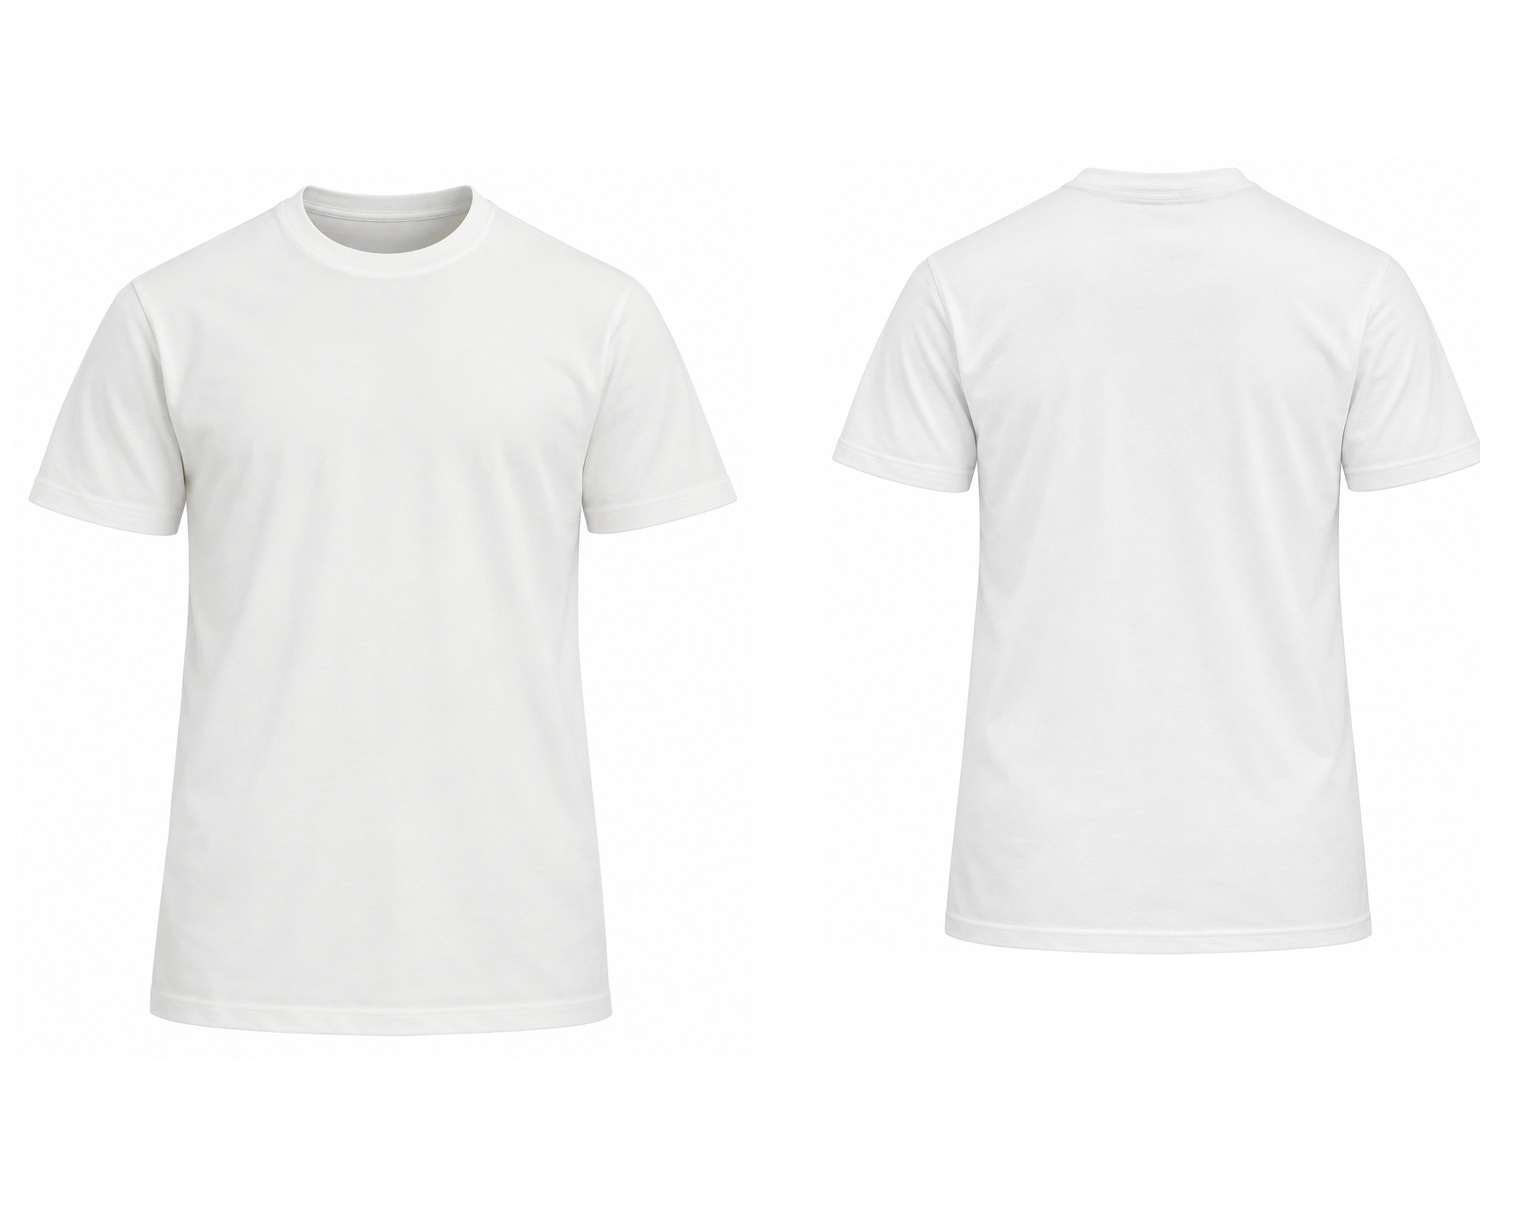
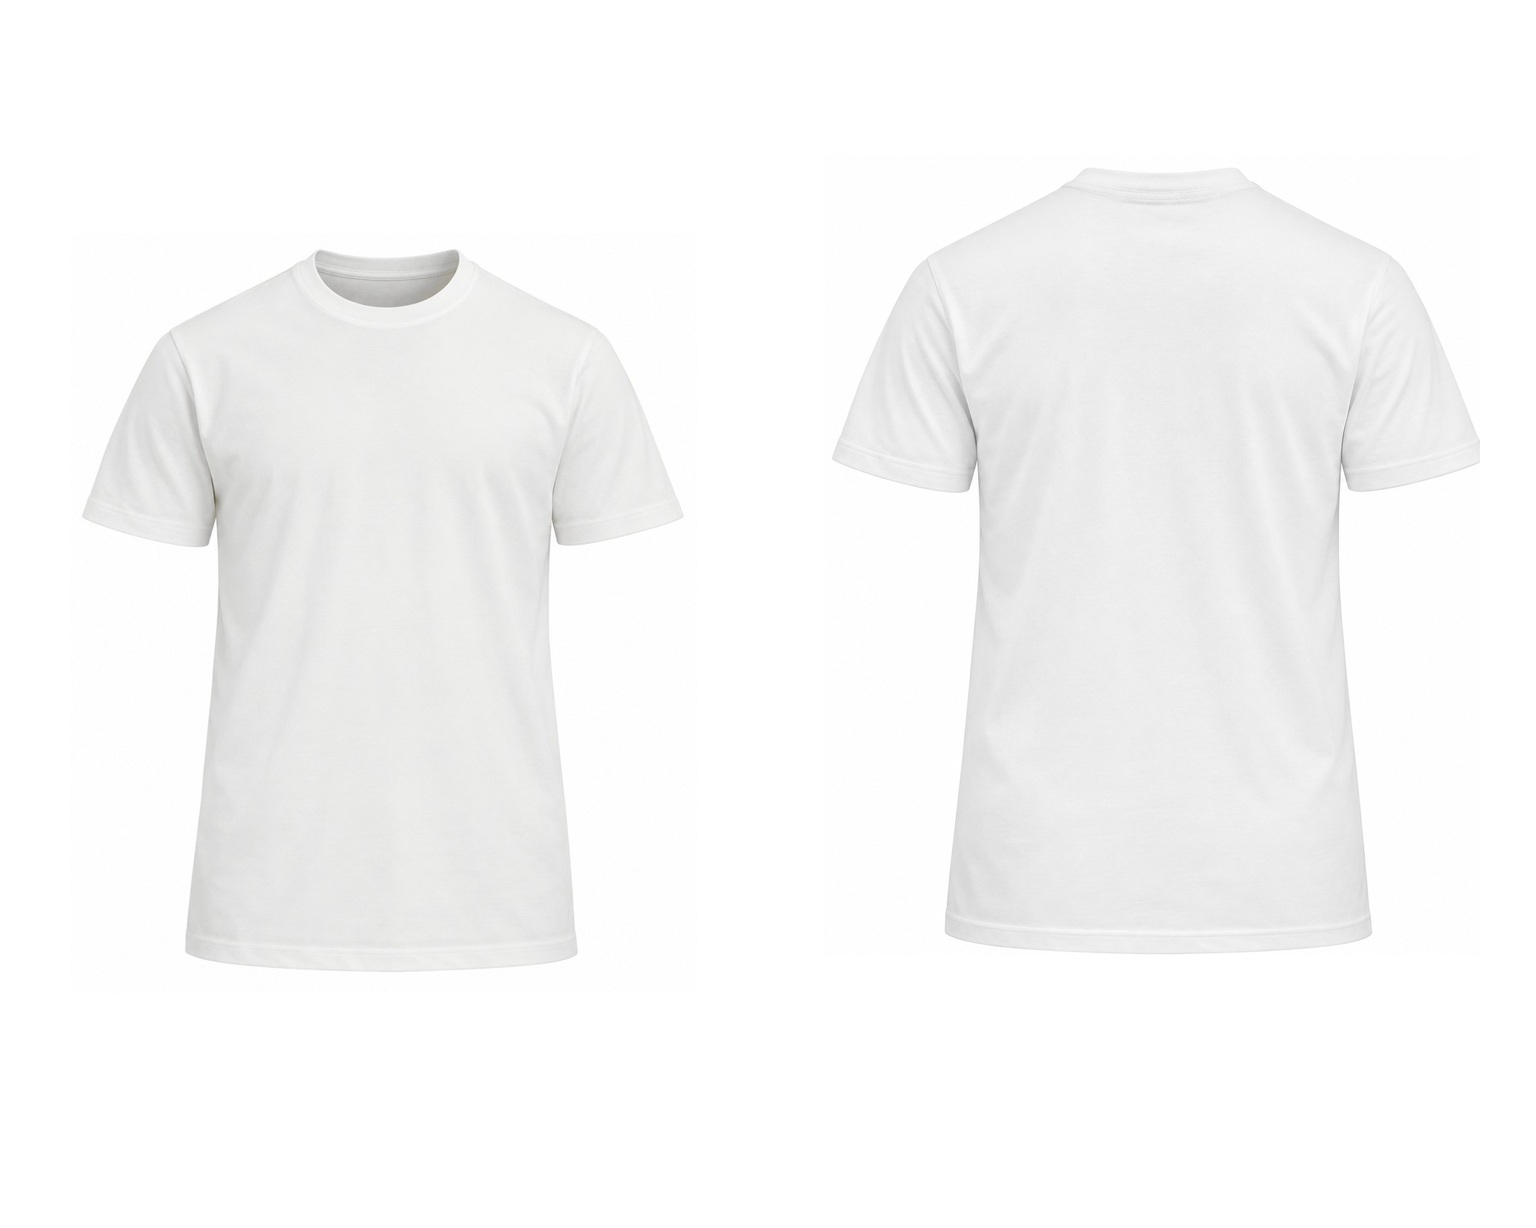
Add files via upload

Changed region(s): [[0.0, 0.1857, 0.4062, 0.8355], [0.1562, 0.1547, 0.3125, 0.2476], [0.3438, 0.4023, 0.4062, 0.4951]]

diff --git a/designhilfe.html b/designhilfe.html
@@ -7,7 +7,7 @@
 <title>Designen Sie Ihr T-Shirt · ShirtBOX.ch</title>
 <script>if ("scrollRestoration" in history) history.scrollRestoration = "manual";</script>
 <link href="shirtbox-icon.svg" rel="icon" type="image/svg+xml"/><link href="shirtbox.css?v=20261025-raster" rel="stylesheet"/><link href="marke.css?v=20261025-raster" rel="stylesheet"/>
-<link href="gestalter.css?v=20261101-bearbeiten" rel="stylesheet"/>
+<link href="gestalter.css?v=20261114b" rel="stylesheet"/>
 </head>
 <body class="design-page">
 <main class="shell">
@@ -36,20 +36,19 @@
 <div class="studio-models" id="studio-models" role="group" aria-labelledby="studio-model-title">
 <button type="button" data-model="polo" aria-pressed="false"><img src="anleitung/polo-auswahl.jpg?v=20261024" width="800" height="800" alt=""/><span>Polo-Shirt<small>Kragen mit Knopfleiste</small></span></button>
 <button type="button" data-model="zip" aria-pressed="false"><img src="anleitung/zip-auswahl.jpg?v=20261024" width="800" height="800" alt=""/><span>Zip-Shirt<small>Stehkragen mit Reissverschluss</small></span></button>
-<button type="button" data-model="tshirt" aria-pressed="false"><img src="anleitung/tshirt-auswahl.jpg" width="800" height="800" alt=""/><span>T-Shirt<small>Normaler Schnitt · Rundhals</small></span></button>
-<button type="button" data-model="oversize" aria-pressed="false"><img src="anleitung/oversize-auswahl.jpg" width="800" height="800" alt=""/><span>Oversize T-Shirt<small>Weiter Schnitt · Rundhals</small></span></button>
+<button type="button" data-model="tshirt" aria-pressed="false"><img src="anleitung/tshirt-auswahl.jpg?v=20261114" width="800" height="800" alt=""/><span>T-Shirt<small>Normaler Schnitt · Rundhals</small></span></button>
+<button type="button" data-model="oversize" aria-pressed="false"><img src="anleitung/oversize-auswahl.jpg?v=20261114" width="800" height="800" alt=""/><span>Oversize T-Shirt<small>Weiter Schnitt · Rundhals</small></span></button>
 </div></div>
 <div class="studio-step" id="studio-idea">
 <p class="studio-step-title"><b>2</b><span>Ihre Idee<small>Beschreiben Sie Ihr Wunsch-Shirt – ein eigenes Foto ist optional.</small></span></p>
-<div class="studio-field studio-sub sub-idea"><div class="studio-robot" id="studio-guide"><span class="studio-robot-who"><svg class="studio-robot-icon" viewBox="0 0 24 24" aria-hidden="true"><path d="M12 3.2v2.3"/><circle cx="12" cy="2.3" r=".9"/><rect x="5" y="5.5" width="14" height="10" rx="3"/><circle class="robot-eye" cx="9.2" cy="10" r="1.3"/><circle class="robot-eye" cx="14.8" cy="10" r="1.3"/><path class="robot-mouth" d="M9.6 13.1c1.5.8 3.3.8 4.8 0"/><path d="M3 9v3.5M21 9v3.5"/><path d="M8.5 15.5v2h7v-2"/><path d="M6.5 22c0-2.2 2.5-4 5.5-4s5.5 1.8 5.5 4"/></svg><b>Shirti</b></span><p class="studio-robot-bubble"><span class="studio-robot-source"><strong>Schreib oder sag mir unten, wie dein Shirt aussehen soll.</strong> <span>Lass deiner Fantasie freien Lauf!</span></span><span class="studio-robot-typed" aria-hidden="true"><strong></strong><span></span><i class="studio-robot-caret"></i></span></p></div>
-<div class="studio-photo studio-photo-small" id="studio-photo-box">
+<div class="studio-field studio-sub sub-idea"><div class="studio-photo studio-photo-small" id="studio-photo-box">
 <input id="studio-photo" type="file" accept="image/png,image/jpeg,image/webp" aria-label="Foto hochladen (optional)"/>
 <span class="studio-photo-icon" aria-hidden="true"><svg viewBox="0 0 24 24"><path d="M3 8.5A2.5 2.5 0 0 1 5.5 6h2l1.6-2.2h5.8L16.5 6h2A2.5 2.5 0 0 1 21 8.5v9a2.5 2.5 0 0 1-2.5 2.5h-13A2.5 2.5 0 0 1 3 17.5z"/><circle cx="12" cy="12.8" r="3.8"/></svg></span><img id="studio-photo-thumb" alt=""/>
 <span class="studio-photo-label"><span id="studio-photo-name">Eigenes Foto oder Logo hochladen</span><small class="studio-photo-hint">optional – ich integriere es in dein Design</small></span>
 <button class="studio-photo-remove" id="studio-photo-remove" type="button" hidden>Entfernen</button>
 </div>
 <p class="studio-photo-error" id="studio-photo-error" role="alert" hidden></p>
-<div class="studio-keyword-box"><textarea id="studio-keyword" rows="6" placeholder=" " autocomplete="off" aria-label="Wie soll Ihr T-Shirt aussehen und was soll darauf stehen?" aria-describedby="studio-guide"></textarea><span class="studio-keyword-icons"><button class="studio-icon-btn" type="button" data-act="type"><svg class="icon-keys" viewBox="0 0 24 24"><rect x="1.5" y="6" width="21" height="12.5" rx="2.2"/><path d="M5 9.5h1.2M8.6 9.5h1.2M12.2 9.5h1.2M15.8 9.5h1.2M19 9.5h.4M6.8 12.3h1.2M10.4 12.3h1.2M14 12.3h1.2M17.4 12.3h1.2M7.5 15.2h9"/></svg><span>Antippen &amp; schreiben</span></button><button class="studio-icon-btn" type="button" data-act="speak"><svg class="icon-mouth" viewBox="0 0 24 24"><path d="M1.8 12.2c2.2-1.7 4.2-4.6 6.8-4.6 1.4 0 2.3.9 3.4 1.6 1.1-.7 2-1.6 3.4-1.6 2.6 0 4.6 2.9 6.8 4.6-2.6 3.3-5.8 5.4-10.2 5.4S4.4 15.5 1.8 12.2z"/><path d="M1.8 12.2c3.2.9 6.6 1.3 10.2 1.3s7-.4 10.2-1.3"/><path d="M23 6.5c.6 1 .6 2.2 0 3.2M21.2 7.3c.3.5.3 1.1 0 1.6M1 6.5c-.6 1-.6 2.2 0 3.2M2.8 7.3c-.3.5-.3 1.1 0 1.6"/></svg><span>Antippen &amp; sprechen</span></button></span></div>
+<div class="studio-keyword-box"><textarea id="studio-keyword" rows="6" placeholder=" " autocomplete="off" aria-label="Wie soll Ihr T-Shirt aussehen und was soll darauf stehen?"></textarea><span class="studio-keyword-icons"><button class="studio-icon-btn" type="button" data-act="type"><svg class="icon-keys" viewBox="0 0 24 24"><rect x="1.5" y="6" width="21" height="12.5" rx="2.2"/><path d="M5 9.5h1.2M8.6 9.5h1.2M12.2 9.5h1.2M15.8 9.5h1.2M19 9.5h.4M6.8 12.3h1.2M10.4 12.3h1.2M14 12.3h1.2M17.4 12.3h1.2M7.5 15.2h9"/></svg><span>Antippen &amp; schreiben</span></button><button class="studio-icon-btn" type="button" data-act="speak"><svg class="icon-mouth" viewBox="0 0 24 24"><path d="M1.8 12.2c2.2-1.7 4.2-4.6 6.8-4.6 1.4 0 2.3.9 3.4 1.6 1.1-.7 2-1.6 3.4-1.6 2.6 0 4.6 2.9 6.8 4.6-2.6 3.3-5.8 5.4-10.2 5.4S4.4 15.5 1.8 12.2z"/><path d="M1.8 12.2c3.2.9 6.6 1.3 10.2 1.3s7-.4 10.2-1.3"/><path d="M23 6.5c.6 1 .6 2.2 0 3.2M21.2 7.3c.3.5.3 1.1 0 1.6M1 6.5c-.6 1-.6 2.2 0 3.2M2.8 7.3c-.3.5-.3 1.1 0 1.6"/></svg><span>Antippen &amp; sprechen</span></button></span></div>
 <p class="studio-speech-status" id="studio-speech-status" role="status" aria-live="polite"></p>
 </div>
 </div>
@@ -67,7 +66,7 @@
 <div class="studio-loader" id="studio-loader" role="status" aria-live="polite" hidden><span aria-hidden="true">⏳</span><strong>Ihr Shirt wird gestaltet …</strong><small>Das dauert bis zu 3 Minuten.</small></div>
 <figcaption><span>Vorne</span><span>Hinten</span></figcaption>
 </figure>
-<p class="studio-wait" id="studio-wait" aria-hidden="true"><span aria-hidden="true">✨</span><strong>Deine Idee wird jetzt verwirklicht.</strong><span>Lass dich überraschen!</span></p>
+
 <p class="studio-status" id="studio-status" role="status" aria-live="polite"></p>
 <div class="studio-edit" id="studio-edit" hidden>
 <label class="studio-edit-label" for="studio-edit-input"><strong>Sie wollen noch Änderungen anbringen?</strong><span>Bitte beschreiben Sie die Änderungen hier. Die KI passt Ihr T-Shirt anschliessend an.</span></label>
@@ -103,9 +102,9 @@
 </main>
 <script defer src="design-uebernahme.js?v=20261031-png"></script>
 <script defer src="bestell-logik.js?v=20261023-unbegrenzt"></script>
-<script defer src="gestalter.js?v=20261101-bearbeiten"></script>
+<script defer src="gestalter.js?v=20261114b"></script>
 <script defer src="navigation.js?v=20261101-hinher"></script>
-<script defer src="language.js?v=20261101-bearbeiten"></script>
+<script defer src="language.js?v=20261114-vier-modelle"></script>
 <script defer src="shirti.js?v=20261031-5mb"></script>
 <script src="studio-flying-designs.js" defer></script>
 </body>

diff --git a/gestalter.css b/gestalter.css
@@ -381,3 +381,38 @@ html[lang=en] .studio-designs:empty::before{content:"Your T-shirt designs will a
 .studio-wait .sb-wait-flying svg{display:block;width:100%;height:100%;fill:none;stroke:currentColor;stroke-width:1.15;stroke-linecap:round;stroke-linejoin:round}
 @keyframes sbWaitFly{0%{opacity:0;transform:translate(var(--from-x),var(--from-y)) scale(.35) rotate(-35deg)}30%{opacity:.3}70%{opacity:.24}100%{opacity:0;transform:translate(var(--to-x),var(--to-y)) scale(1.3) rotate(35deg)}}
 @media(prefers-reduced-motion:reduce){.studio-wait .sb-wait-flying i{animation:none;opacity:.14;transform:none}}
+
+/* Vier Shirt-Modelle immer als sichtbares 2x2-Raster, auch auf Mobilgeraeten. */
+#studio-models{display:grid!important;grid-template-columns:repeat(2,minmax(0,1fr))!important;gap:10px!important;height:auto!important;max-height:none!important;overflow:visible!important}
+#studio-models>button{display:flex!important;flex-direction:row!important;align-items:center!important;min-width:0!important;min-height:70px!important;height:auto!important;visibility:visible!important;opacity:1!important;gap:10px!important;padding:6px!important}
+#studio-models>button img{width:58px!important;height:58px!important;flex:0 0 58px!important;aspect-ratio:1!important;object-fit:cover!important}
+#studio-models>button span{min-width:0!important;overflow-wrap:anywhere!important;font-size:14px!important}
+#studio-models>button small{font-size:11px!important}
+@media(max-width:420px){#studio-models{gap:7px!important}#studio-models>button{gap:5px!important;padding:4px!important}#studio-models>button img{width:43px!important;height:50px!important;flex-basis:43px!important}#studio-models>button span{font-size:12px!important}#studio-models>button small{font-size:10px!important}}
+
+/* Einheitliche Auswahlkarten und zentrierte Darstellung (14.11.2026) */
+#studio-models{display:grid!important;grid-template-columns:repeat(2,minmax(0,1fr))!important;gap:10px!important;align-items:stretch!important}
+#studio-models>button{display:flex!important;flex-direction:row!important;align-items:center!important;gap:10px!important;min-height:72px!important;padding:6px!important;text-align:left!important}
+#studio-models>button img{width:58px!important;height:58px!important;flex:0 0 58px!important;object-fit:contain!important;aspect-ratio:1!important;background:#676767!important}
+#studio-models>button span{flex:1!important;min-width:0!important;font-size:14px!important;overflow-wrap:break-word!important}
+#studio-models>button small{font-size:11px!important}
+@media(max-width:420px){#studio-models>button{gap:5px!important;padding:4px!important}#studio-models>button img{width:43px!important;height:50px!important;flex:0 0 43px!important}#studio-models>button span{font-size:12px!important}#studio-models>button small{font-size:10px!important}}
+.studio-stage.is-blank .studio-preview::after{content:none!important;display:none!important}
+.studio-designs:empty::before{content:none!important;display:none!important}
+.studio-wait,.studio-robot{display:none!important}
+.studio-stage,.studio-preview,.studio-collection{text-align:center}
+.studio-grid{align-items:start}
+.studio-preview img{object-fit:contain!important;background:#fff}
+
+/* Vollstaendige Beschriftung auf Designkarten, auch bei schmalen Ansichten. */
+.studio-card-edit{
+  height:auto;
+  min-height:40px;
+  padding:8px 6px;
+  white-space:normal;
+  overflow:visible;
+  text-overflow:clip;
+  overflow-wrap:normal;
+  line-height:1.3;
+  text-align:center;
+}

diff --git a/shirts-live.html b/shirts-live.html
@@ -44,7 +44,7 @@ Ihr Browser unterstützt die Videowiedergabe nicht. <a href="videos/shirt-detail
 <p class="footer-legal"><a class="footer-admin" href="https://admin.shirtbox.ch/" rel="nofollow">© 2026 ShirtBOX.ch</a> · Alle Preise inkl. MwSt. und Versand · Bezahlung per TWINT</p>
 </footer>
 </main>
-<script>(()=>{const v=document.getElementById("shirt-example-video");if(!v)return;const slow=()=>{v.defaultPlaybackRate=.75;v.playbackRate=.75};slow();v.addEventListener("loadedmetadata",slow);v.addEventListener("play",slow)})();</script><script defer src="navigation.js?v=20261102-mobil"></script><script defer src="language.js?v=20261102-seite1"></script>
-<script defer src="shirti.js?v=20261102-layout"></script>
+<script>(()=>{const v=document.getElementById("shirt-example-video");if(!v)return;const slow=()=>{v.defaultPlaybackRate=.75;v.playbackRate=.75};slow();v.addEventListener("loadedmetadata",slow);v.addEventListener("play",slow)})();</script><script defer src="navigation.js?v=20261101-hinher"></script><script defer src="language.js?v=20261031-5mb"></script>
+<script defer src="shirti.js?v=20261031-5mb"></script>
 </body>
 </html>
